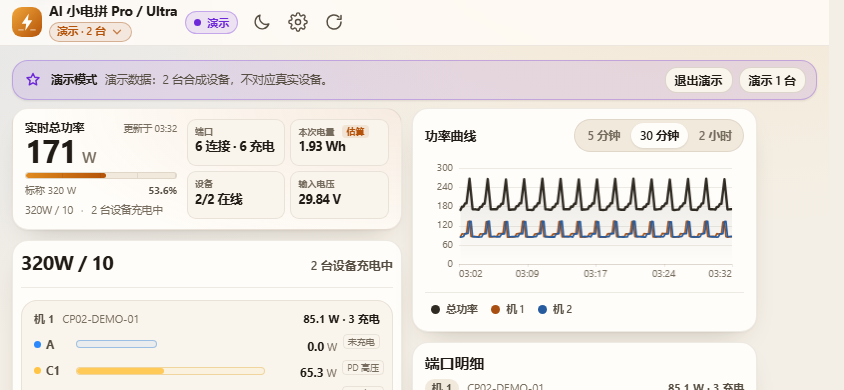
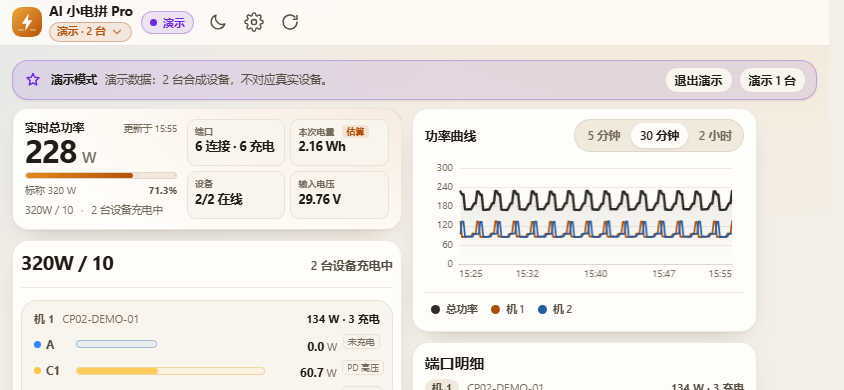
fix: show actual device model (Pro/Ultra) instead of Pro / Ultra label

diff --git a/assets/js/demo.js b/assets/js/demo.js
@@ -54,7 +54,7 @@ const DEMO_DEVICE = {
   name: "CP02-DEMO",
   model: "pro",
   family: "CP02",
-  modelLabel: "AI 小电拼 Pro / Ultra（CP-02）",
+  modelLabel: "AI 小电拼 Pro（CP-02）",
   color: "white",
   hwRev: "MP0",
   esp32Version: "2.2.0",

diff --git a/README.md b/README.md
@@ -50,6 +50,8 @@
   （充电中的线有流动虚线，可“重播功率流”）；**简洁视图**是五条端口色功率线，
   实心长度=当前输出、浅色轨道=端口能力（A 60 W、C 140 W），对齐官方 App 的 `160W / 5` 表达。
 - **实时总览**：总功率、在充口数、本次累计电量、DC 输入母线电压、开机时长。
+- **型号按设备自报显示**：本机 `device_model=pro` 就显示 **AI 小电拼 Pro**；Ultra 设备显示
+  **Ultra**，不会再固定写“Pro / Ultra”。
 - **五口明细**：实时 W / V / A、快充协议（PD / PPS / QC / UFCS / VOOC…）、端口状态、
   本次充电时长、本次电量（由设备原始计数换算，±5% 估算）。
 - **扫描并选择设备**：首次打开自动扫描本机 /24 网段，列出发现的小电拼（名称 / PSN / 主机 / RSSI），

diff --git a/docs/DATA-CONTRACT.md b/docs/DATA-CONTRACT.md
@@ -28,7 +28,7 @@ HTTP 端点的细节；数据层负责把设备的 `/metrics.json`、Prometheus 
     "name": "CP02-EXAMPLE",
     "model": "pro",
     "family": "CP02",
-    "modelLabel": "AI 小电拼 Pro / Ultra（CP-02）",
+    "modelLabel": "AI 小电拼 Pro（CP-02）",
     "color": "white",
     "hwRev": "MP0",
     "esp32Version": "2.2.0",
